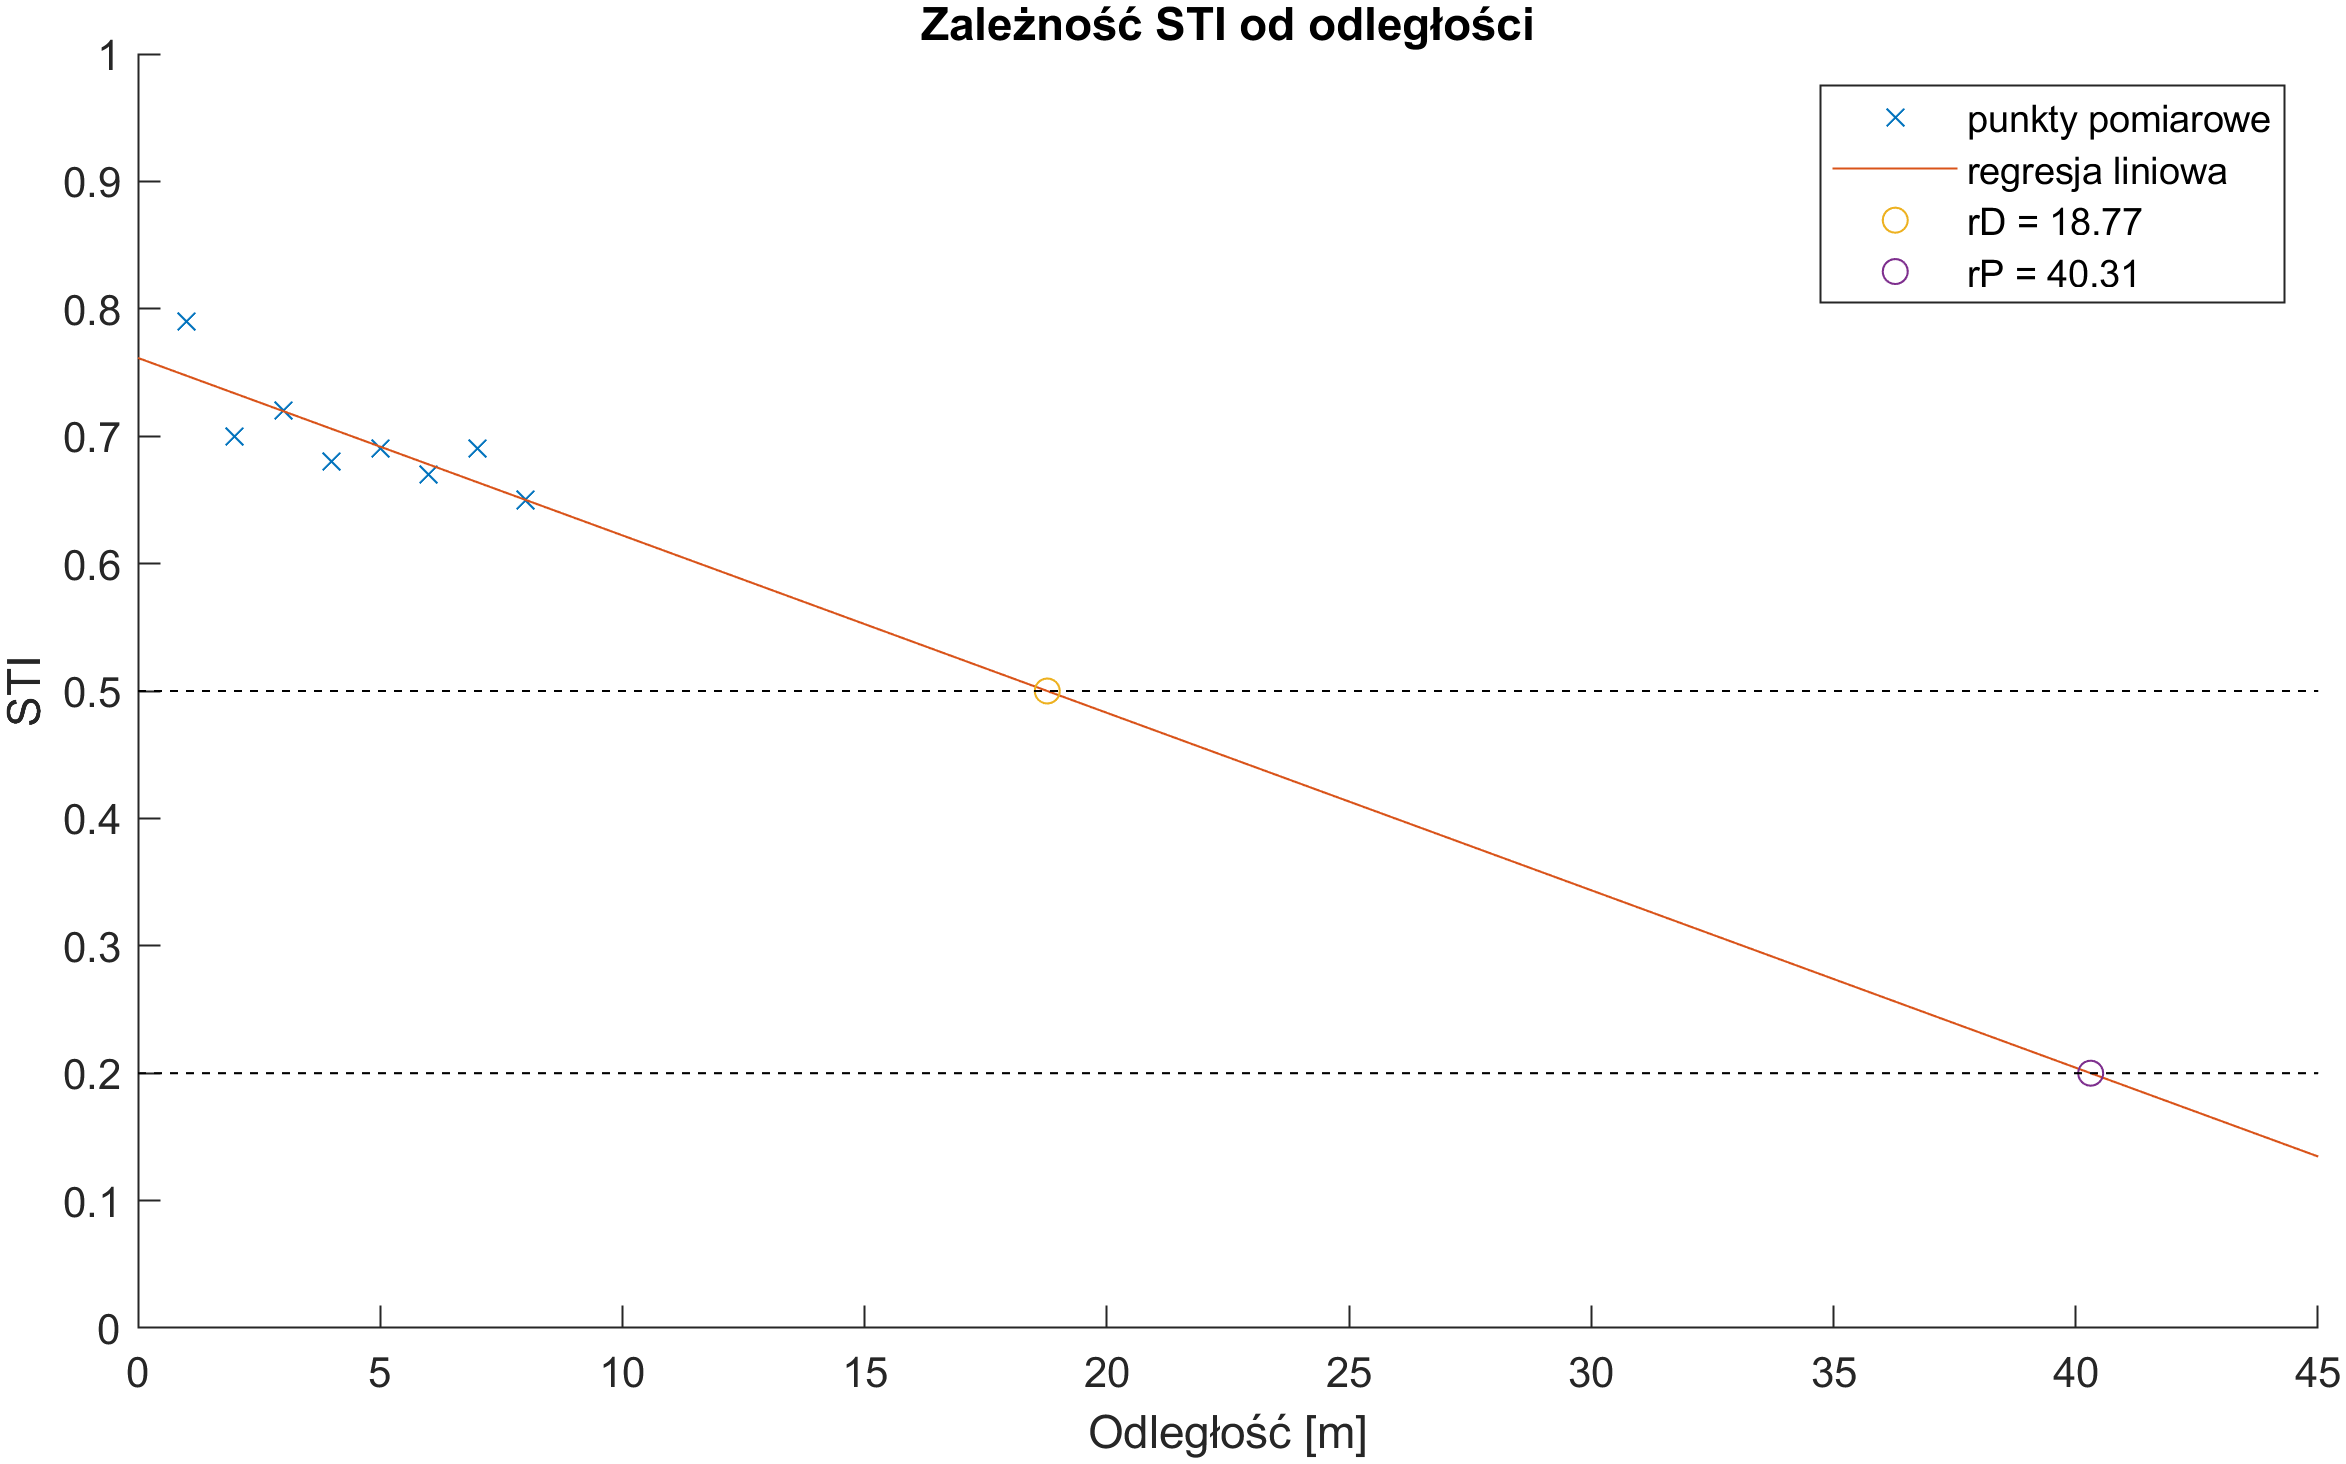
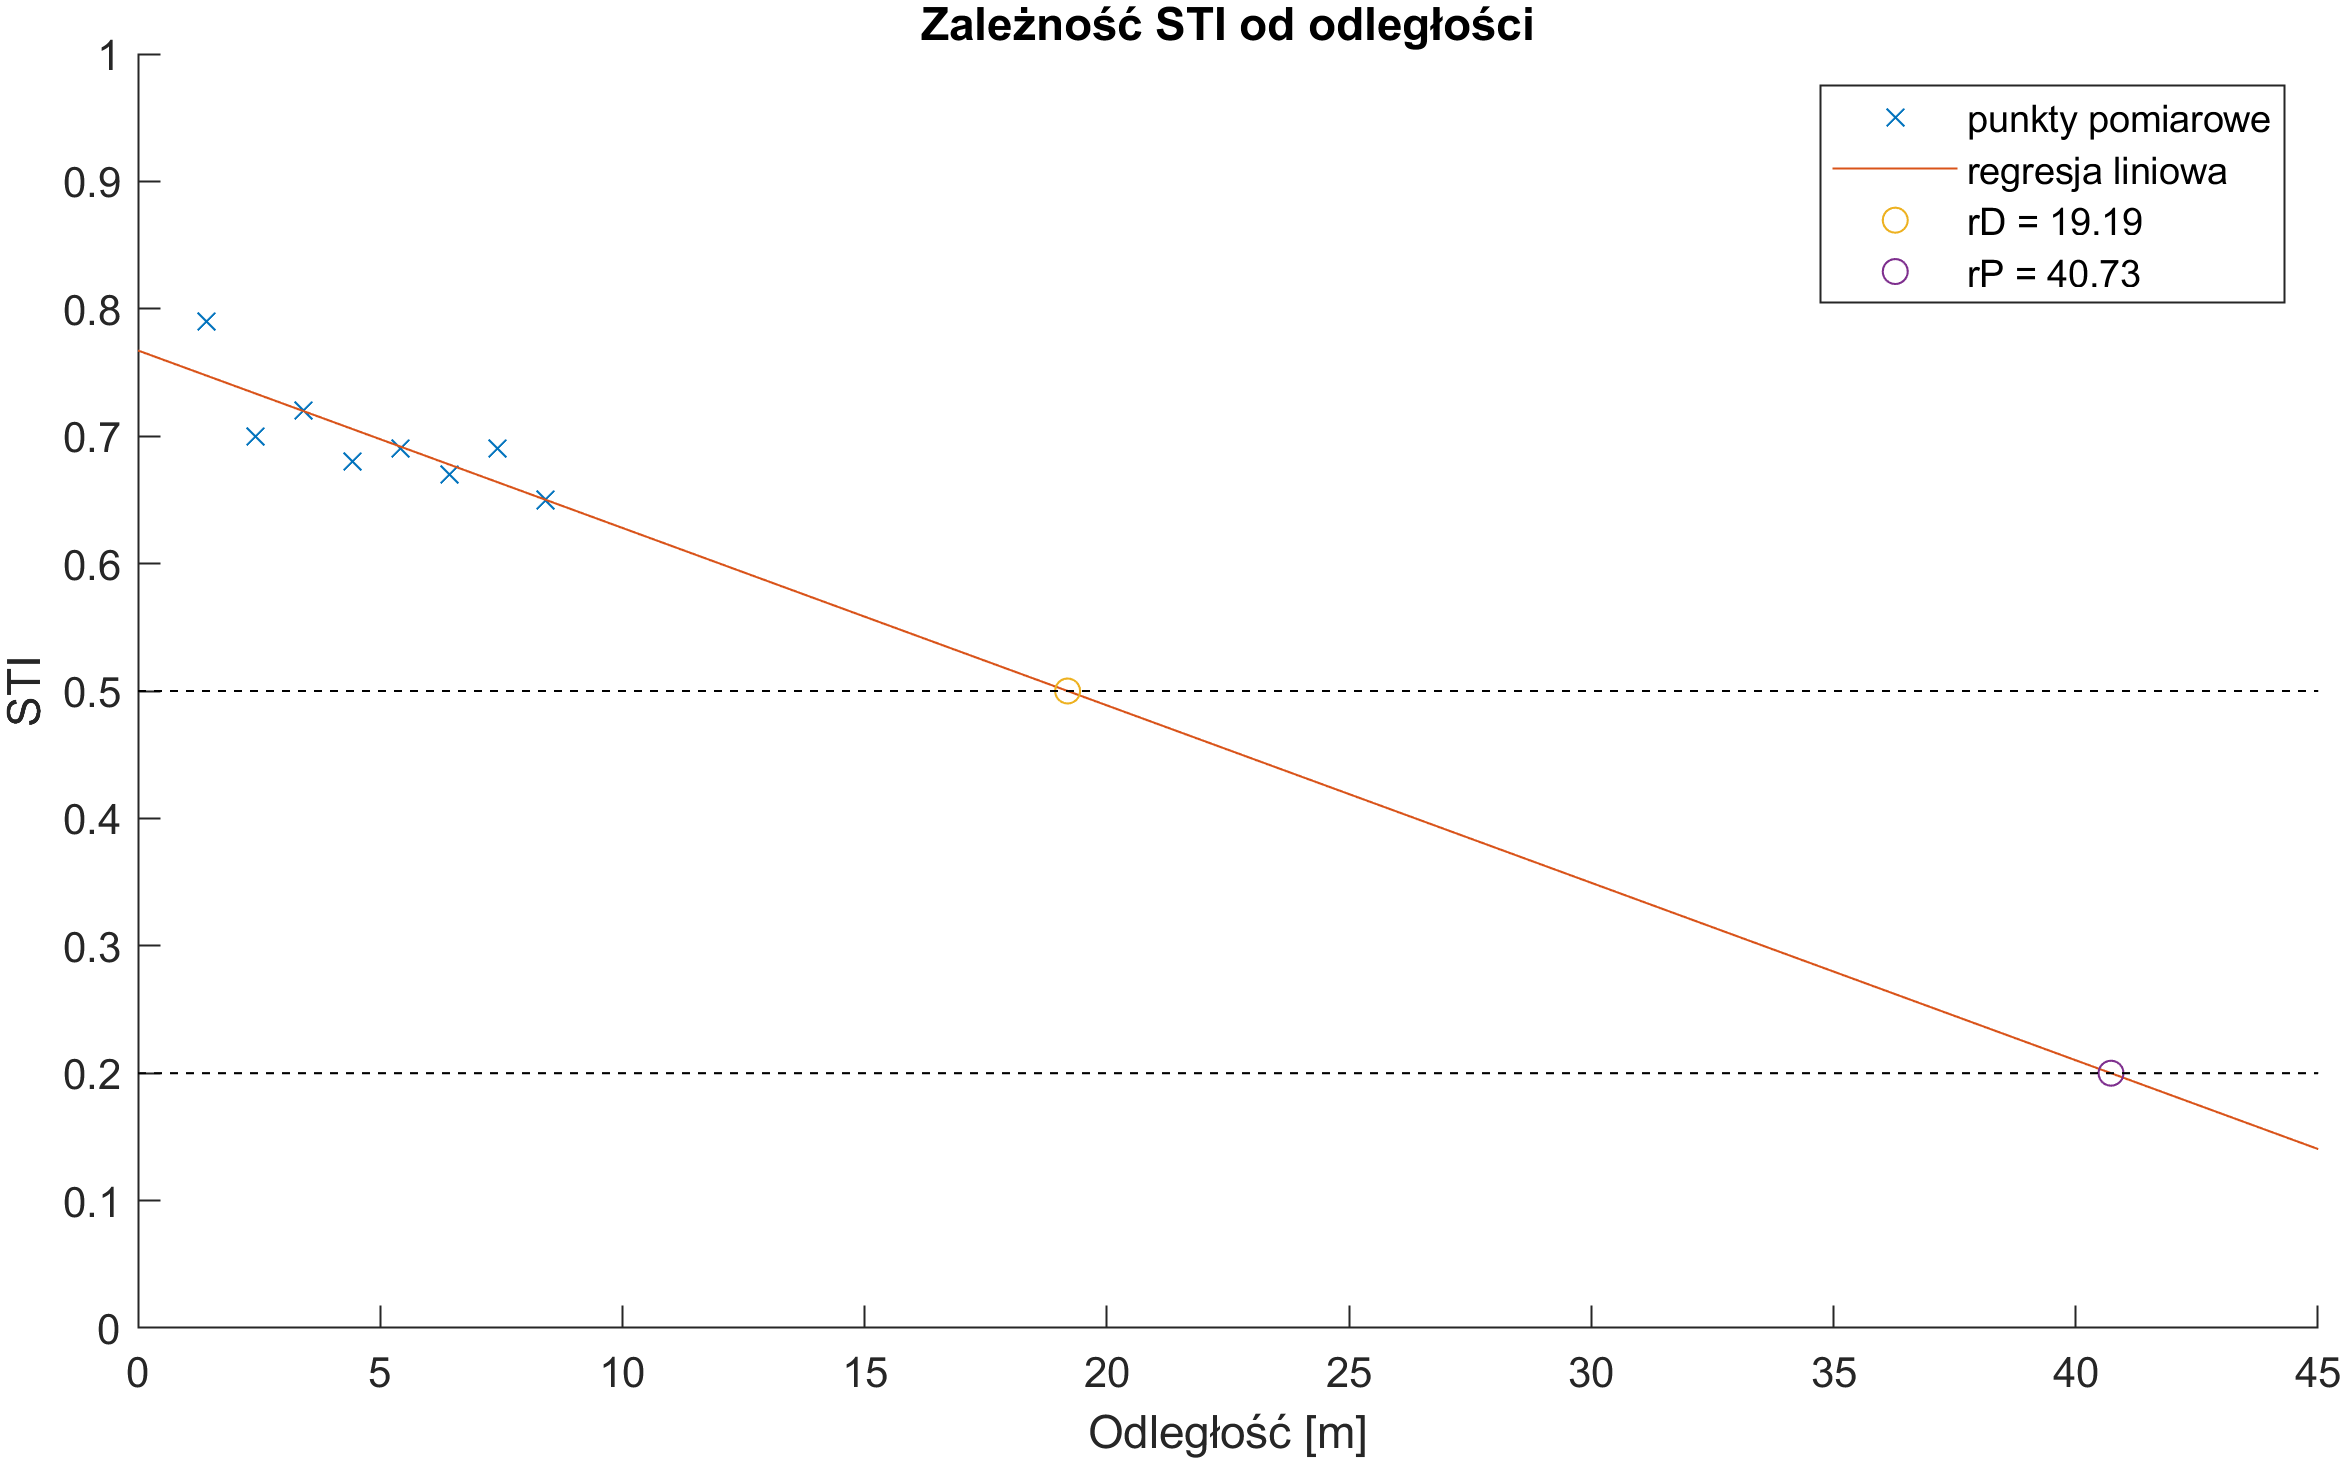
poprawki

diff --git a/Lab2_5/untitled.m b/Lab2_5/untitled.m
@@ -1,7 +1,8 @@
 load("AMP_wyniki.mat");
 
 sti_means = zeros(length(STI_male{:,1}), 1);
-measurement_distances = [1, 2, 3, 4, 5, 6, 7, 8]; % TODO - podmienić odległości na faktyczne !
+
+measurement_distances = 3-1.58:1:(3-1.58+7)
 
 for i=1:length(STI_male{:,1})
     sti_means(i) = mean(STI_male{i,2:end});
@@ -78,18 +79,17 @@ plot([0, 100], a*[0, 100]+ b);
 % a * 4 +b = y
 scatter(4, a * 4 +b);
 
-xlim([1, 20]);
+xlim([0, 20]);
 
 xlabel("Odległość [m]");
 ylabel("L_{{\it p},A} [dB]");
 
 title("Zależność L_{{\it p},A,S} od odległości");
 
-legend("Pomiary", "Regresja liniowa", "L_{{\it p},A,S, 4m} = " + num2str(a * 4 +b, 3) + "dB")
+legend("kolejne punkty L_{{\it p},A,S}", "regresja liniowa", "L_{{\it p},A,S, 4m} = " + num2str(a * 4 +b, 3) + "dB")
 
-exportgraphics(f, '2.png', 'Resolution',300);
 
-%%
+
 N = length(Leq_db{:,1});
 logs_of_distances = log10(measurement_distances);
 
@@ -98,4 +98,11 @@ denominator = (N * sum(logs_of_distances.^2)) - sum(logs_of_distances).^2;
 numenator = N * sum(Lpasn' .* logs_of_distances) - sum(Lpasn') * sum(logs_of_distances);
 
 D2S = -log10(2) * (numenator./denominator)
+
+((a*10+b)-44)/(58-44)
+
+annotation('textarrow',[0.4, 0.5], [0.4, ((a*10+b)-44)/(58-44)],'String',"D2S = " + num2str(D2S, 3));
+
+exportgraphics(f, '2.png', 'Resolution',300);
+
 
